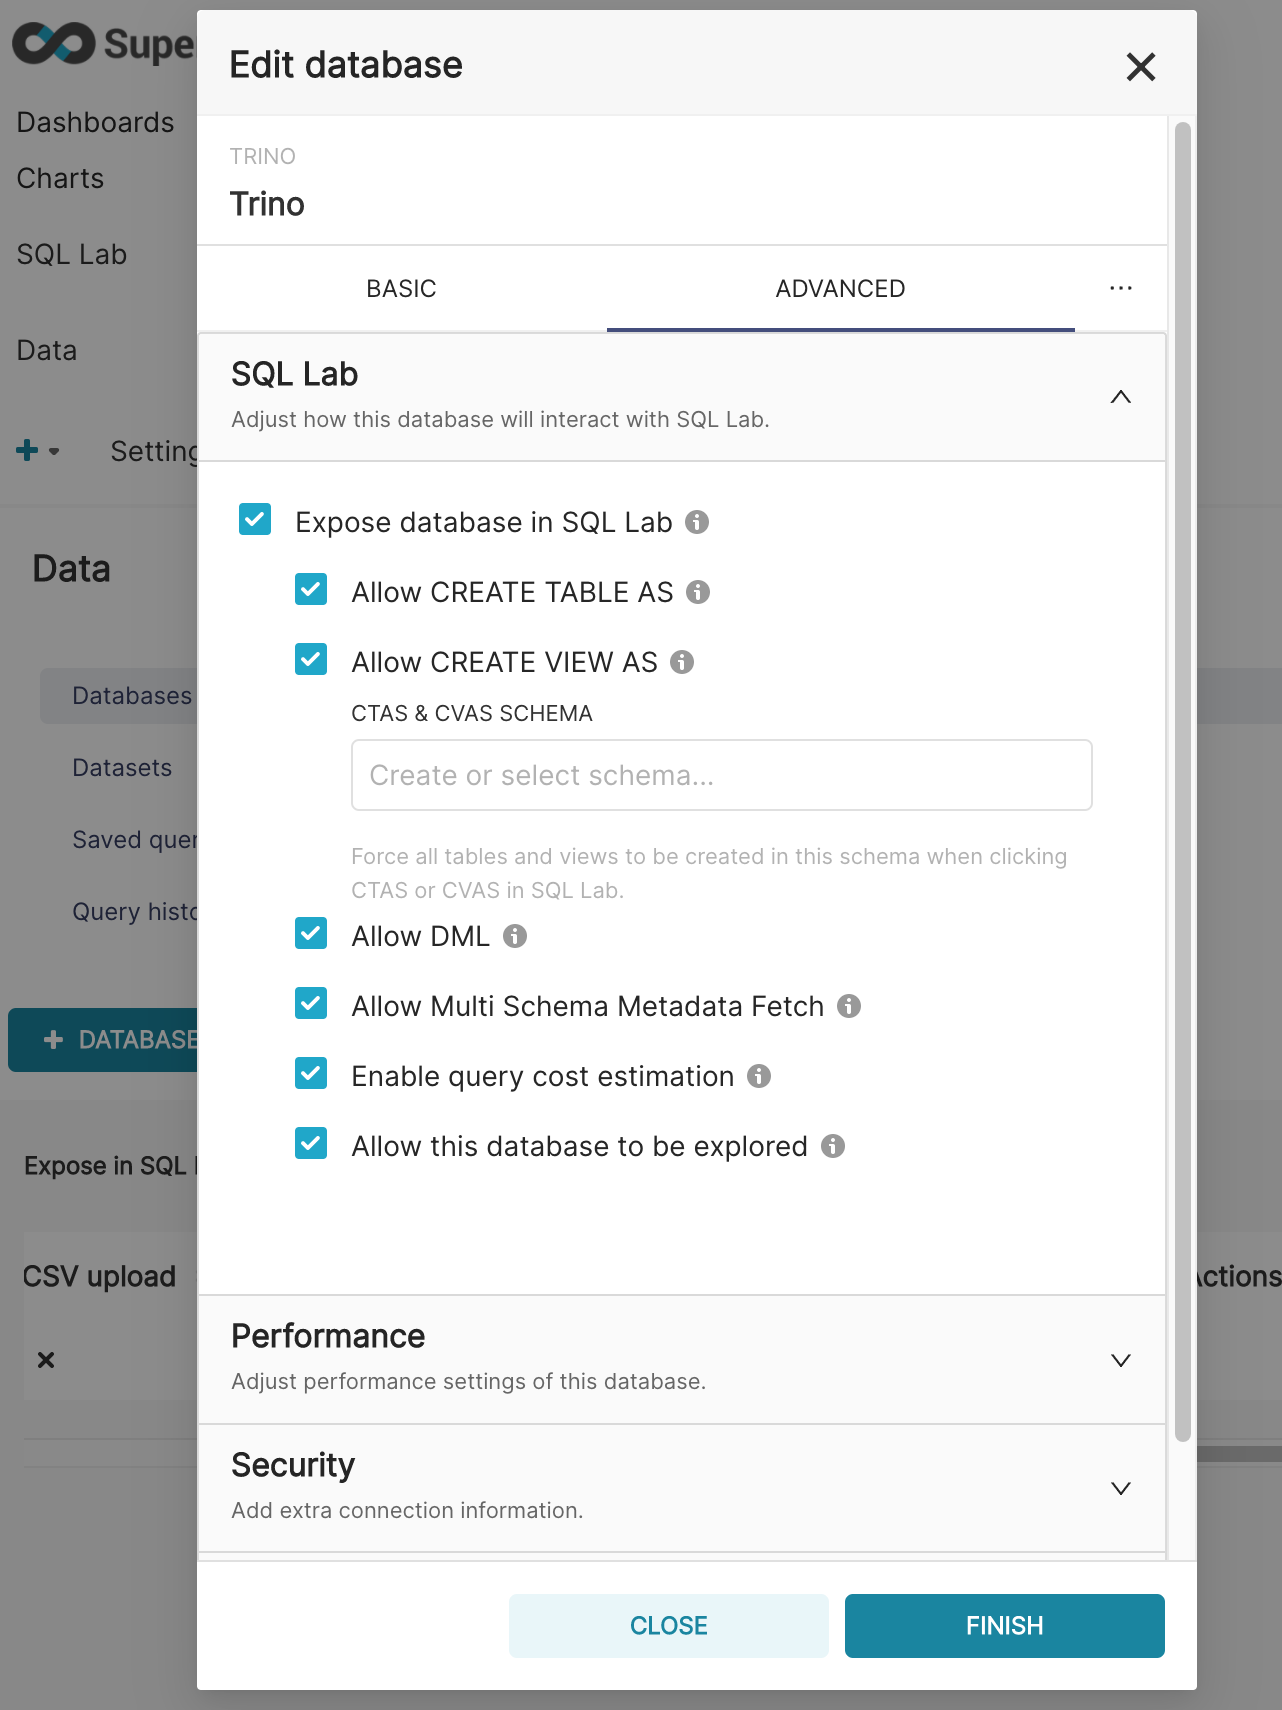
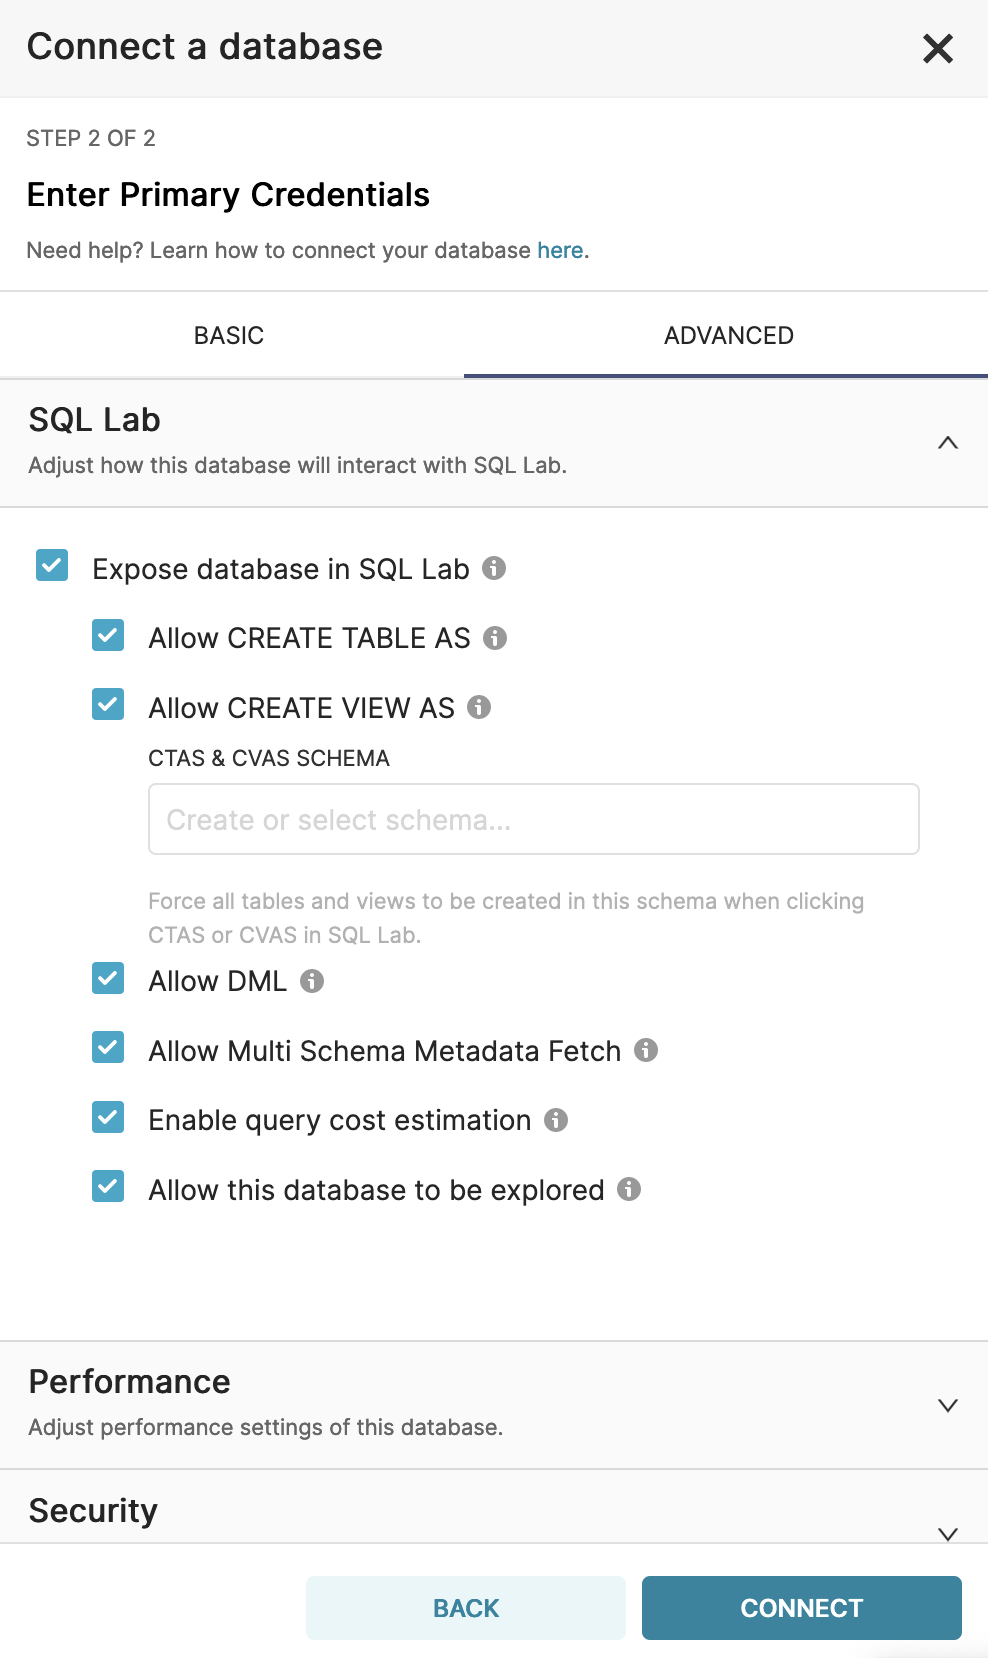
Fixed screen shot

diff --git a/docs/setup-v2.md b/docs/setup-v2.md
@@ -164,6 +164,9 @@ You will now upload two folders (*customers* and *products*) to the *rawdata* bu
 Minio prompts for the folder to upload.
 
 10. Navigate to the *customers* folder you extracted earlier. 
+
+<span style="color:yellow">*REVISIT: Need to navigate into the git repo.*</span>
+
 11. Click: **Upload**.
 
 Minio uploads the folder and all file contents to the *raw data* S3 bucket.
@@ -184,6 +187,8 @@ The result should look like the following figure:
 ![](./images/minio-3.png)
 
 ### Change the *model* Bucket's Permissions
+
+<span style="color:yellow">*REVISIT: Is this still needed?*</span>
 
 15. Click **Buckets** in the Minio console pane.
 16. Scroll down to locate the **models** bucket.
@@ -264,7 +269,7 @@ Superset prompts for the advanced database configuration.
 14. Click **SQL Lab**.
 15. Complete the form as illustrated in the following figure:
 ![](./images/superset-7.png)
-16. Click **Finish**
+16. Click **CONNECT** (or **FINISH** if you have done this step previously)
 
 17. Click **SQL Lab Settings** in the main toolbar.
 18. Click **Saved Queries**.
